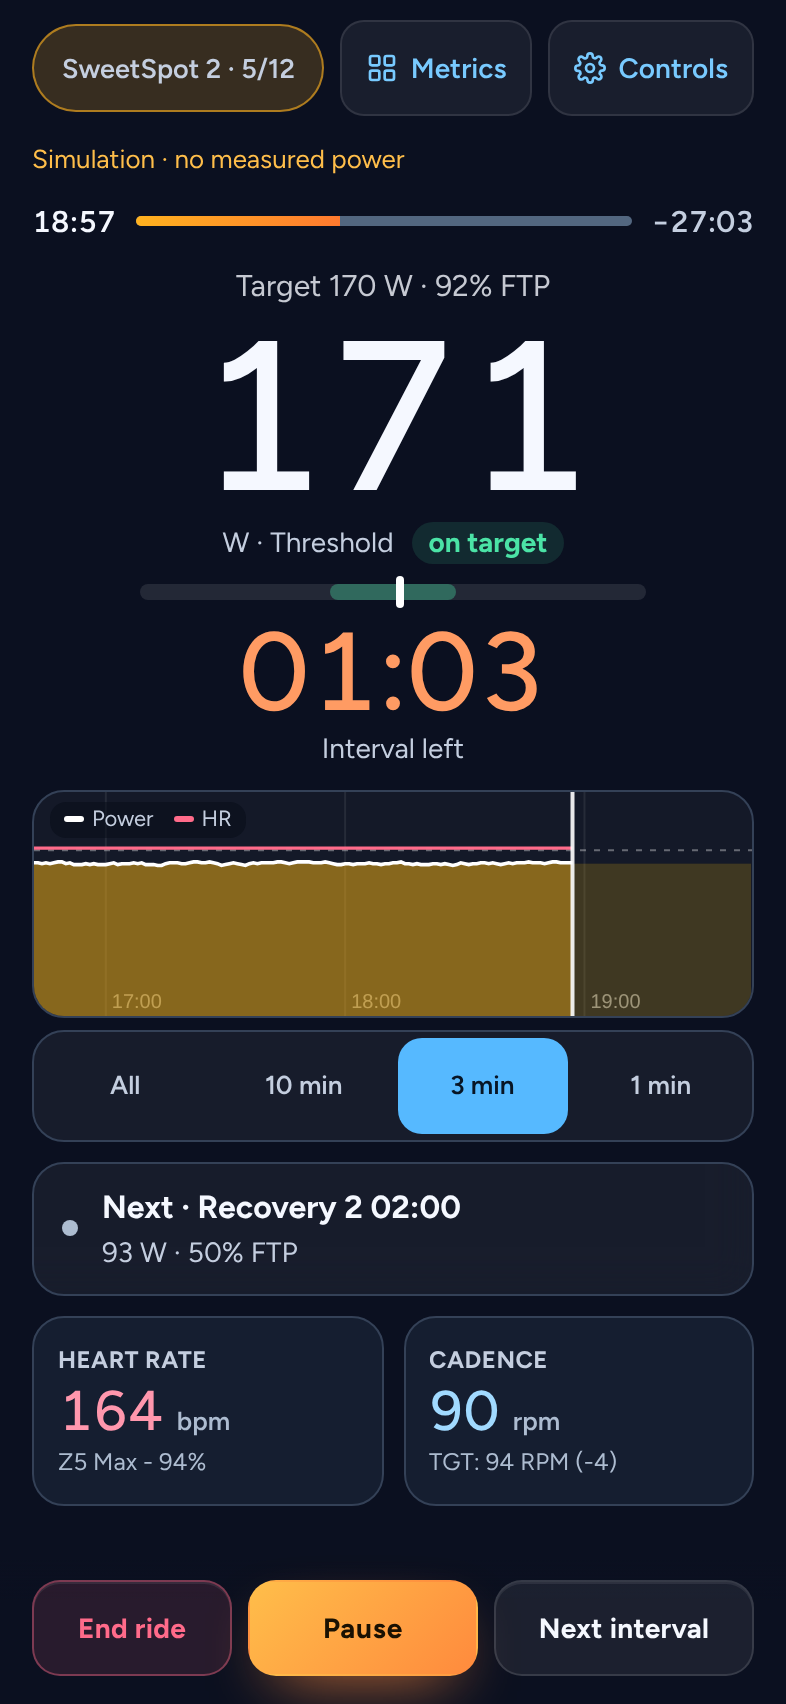
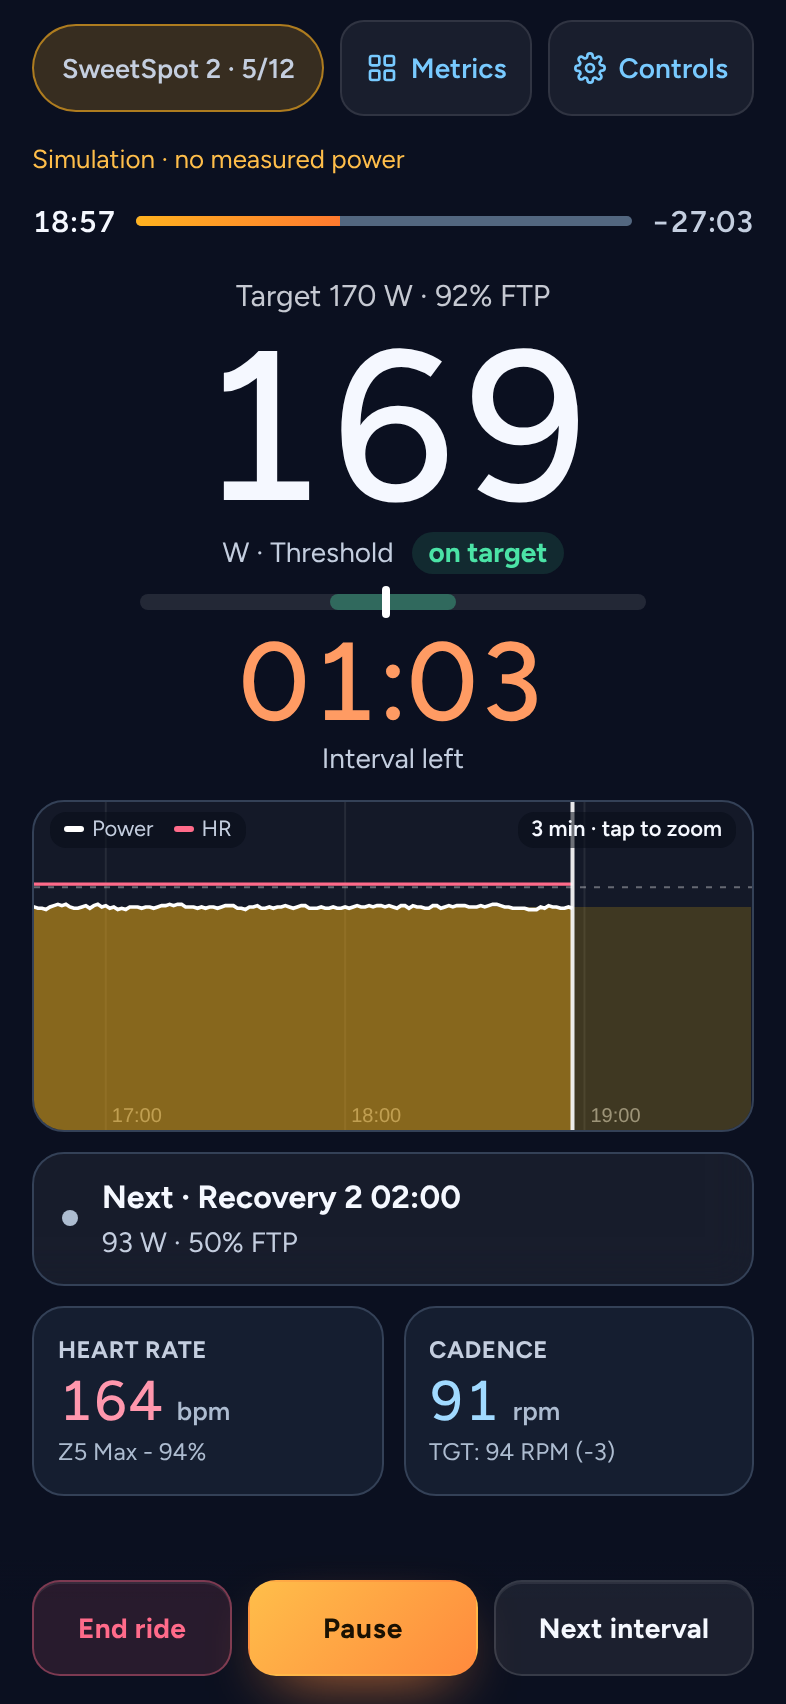
Phone ride screen: tap the graph to step its zoom, no zoom bar; Next interval takes two taps
- The live graph is one button: a tap steps whole ride > 10 min > 3 min >
  1 min > whole ride, shown in its corner, and does nothing else. The zoom
  bar is gone and the graph takes its room.
- Next interval arms on the first tap ("Tap again to skip", 3 s) and skips
  on the second, so a stray touch does not fast-forward the workout.

Claude-Session: https://claude.ai/code/session_01SLriGfu6xk2AV4rjSWGLw4

diff --git a/mobile/src/native-ride-view.js b/mobile/src/native-ride-view.js
@@ -1,8 +1,9 @@
 /**
  * The phone ride screen (docs/ANDROID-UX.md 5.6): one screen, ride/live.
  *  - Always there: power against target, the step countdown, elapsed and time left, End / Pause / Next interval.
- *  - Live graph: power, heart rate and cadence over the targets ridden and the ones to come. It zooms (All, 10 min,
- *    3 min, 1 min, following the ride) and has no tap handlers, so a touch on it can never move the workout.
+ *  - Live graph: power, heart rate and cadence over the targets ridden and the ones to come. A tap on it steps the
+ *    zoom (whole ride, 10 min, 3 min, 1 min, following the ride) and does nothing else: it never moves the workout.
+ *  - Next interval takes two taps, so a stray touch does not skip a step.
  *  - Metrics: a sheet of switches for the panels, the graph's lines and every tile; a tap shows or hides it at once.
  *  - Controls: a sheet with the ride controls (intensity, ERG, step length, smoothing, audio, devices, ...).
  * The choices are saved per rider. Nothing here computes ride data or drives the trainer: values are read from the
@@ -177,11 +178,11 @@ export class RideView {
           <small class="av-ride-left">Interval left</small>
         </div>
         <div class="av-ride-graph" data-av-item="panel:graph">
-          <div class="av-graph-view">
-            <canvas id="avRideGraph" role="img" aria-label="Power, heart rate and cadence over the workout's targets"></canvas>
-            <div class="av-legend" aria-hidden="true"><span data-legend="power"><i class="lg-power"></i>Power</span><span data-legend="hr"><i class="lg-hr"></i>HR</span><span data-legend="cadence"><i class="lg-cad"></i>Cadence</span></div>
-          </div>
-          <div class="av-seg av-zoom" id="avGraphZoom" role="group" aria-label="Graph zoom">${ZOOMS.map((z) => `<button type="button" data-zoom="${z.id}">${z.label}</button>`).join('')}</div>
+          <button type="button" class="av-graph-view" id="avGraphZoom">
+            <canvas id="avRideGraph" aria-hidden="true"></canvas>
+            <span class="av-legend" aria-hidden="true"><span data-legend="power"><i class="lg-power"></i>Power</span><span data-legend="hr"><i class="lg-hr"></i>HR</span><span data-legend="cadence"><i class="lg-cad"></i>Cadence</span></span>
+            <span class="av-zoom-lbl" id="avGraphZoomLabel" aria-hidden="true"></span>
+          </button>
         </div>
         <div class="av-ride-next" data-av-item="panel:next"><span class="av-ride-next-dot"></span><div><b id="avRideNext">--</b><small id="avRideNextSub"></small></div></div>
         <div class="av-ride-coach" data-av-item="panel:coach"><b>Coach</b> <span id="avRideCoach"></span></div>
@@ -196,16 +197,32 @@ export class RideView {
     el.querySelector('#avRideControls').addEventListener('click', () => this.openControls());
     el.querySelector('#avRideEnd').addEventListener('click', () => this.confirmEnd());
     el.querySelector('#avRidePause').addEventListener('click', () => { this.$('btnPlayPause')?.click(); this.update(); });
-    el.querySelector('#avRideSkip').addEventListener('click', () => { this.$('btnSkipInterval')?.click(); this.update(); });
-    // The only thing a touch on the graph card can do is change the zoom, with these buttons.
-    el.querySelector('#avGraphZoom').addEventListener('click', (e) => {
-      const b = e.target.closest('[data-zoom]');
-      if (!b) return;
+    el.querySelector('#avRideSkip').addEventListener('click', () => this.skip());
+    // A tap on the graph only steps its zoom (All > 10 min > 3 min > 1 min > All); it never moves the workout.
+    el.querySelector('#avGraphZoom').addEventListener('click', () => {
       const l = this.layout();
-      l.zoom = b.dataset.zoom;
+      l.zoom = ZOOMS[(ZOOMS.findIndex((z) => z.id === l.zoom) + 1) % ZOOMS.length].id;
       this.saveLayout(l);
       this.applyLayout();
     });
+  }
+
+  /** Next interval takes two taps: the first arms the button for 3 s ("Tap again to skip"), the second skips. */
+  skip() {
+    if (this._skipArmed) { this.disarmSkip(); this.$('btnSkipInterval')?.click(); this.update(); return; }
+    const b = this.$('avRideSkip');
+    b.classList.add('av-armed');
+    b.querySelector('span').textContent = 'Tap again to skip';
+    this._skipArmed = this.win.setTimeout(() => this.disarmSkip(), 3000);
+  }
+
+  disarmSkip() {
+    if (!this._skipArmed) return;
+    this.win.clearTimeout(this._skipArmed);
+    this._skipArmed = null;
+    const b = this.$('avRideSkip');
+    b.classList.remove('av-armed');
+    b.querySelector('span').textContent = 'Next interval';
   }
 
   mount() { this.applyLayout(); this.start(); }
@@ -221,7 +238,13 @@ export class RideView {
     this.simple.dataset.tiles = String(tiles);
     this.simple.dataset.cols = tiles === 3 || tiles > 4 ? '3' : '2';
     this.simple.dataset.density = tiles > 6 ? 'packed' : tiles > 3 ? 'dense' : 'roomy';
-    for (const b of this.simple.querySelectorAll('#avGraphZoom [data-zoom]')) { const on = b.dataset.zoom === l.zoom; b.classList.toggle('on', on); b.setAttribute('aria-pressed', String(on)); }
+    const zoom = ZOOMS.find((z) => z.id === l.zoom) || ZOOMS[0];
+    const zb = this.$('avGraphZoom');
+    if (zb) {
+      zb.dataset.zoom = zoom.id;
+      zb.setAttribute('aria-label', `Live graph of power, heart rate and cadence over the workout's targets, showing ${zoom.secs ? 'the last ' + zoom.label : 'the whole ride'}. Tap to change the zoom.`);
+      this.setText('avGraphZoomLabel', `${zoom.secs ? zoom.label : 'Whole ride'} · tap to zoom`);
+    }
     for (const n of this.simple.querySelectorAll('.av-legend [data-legend]')) n.hidden = !l.lines[n.dataset.legend];
     this._layout = l;
     this._graphKey = '';
@@ -266,6 +289,7 @@ export class RideView {
     const bar = this.$('avRideProgress');
     if (bar) bar.style.width = `${free || ramp ? 0 : Math.max(0, Math.min(100, elapsed / Math.max(1, elapsed + left) * 100))}%`;
     // A visual pulse when the step changes (the app plays its own audio cues).
+    if (this._lastStep != null && this._lastStep !== i) this.disarmSkip();
     if (running && this._lastStep != null && this._lastStep !== i) this.flash();
     this._lastStep = i;
     if (route !== 'ride/live') { this.updateBanner(app); return; }

diff --git a/mobile/web/apex-ride.css b/mobile/web/apex-ride.css
@@ -64,16 +64,18 @@ body.av-shell[data-av-route="ride/live"] main { padding: 0; }
 .av-pulse .av-ride-countdown { animation: av-pulse .5s ease-in-out infinite alternate; }
 @keyframes av-pulse { from { transform: scale(1); } to { transform: scale(1.12); color: #fff; } }
 @media (prefers-reduced-motion: reduce) { .av-pulse .av-ride-countdown { animation: none; text-decoration: underline; } }
-/* Live graph. The picture takes no touches (a tap on it can never move the workout); only the zoom buttons do. */
-.av-ride-graph { display: flex; flex-direction: column; gap: 6px; }
-.av-graph-view { position: relative; border-radius: 16px; overflow: hidden; border: 1px solid var(--line); background: rgba(255, 255, 255, .04); pointer-events: none; }
-.av-graph-view canvas { display: block; width: 100%; height: 112px; }
+/* Live graph: one big button. A tap steps the zoom and nothing else (it can never move the workout). */
+.av-ride-graph { display: flex; flex-direction: column; }
+.av-graph-view { position: relative; display: block; width: 100%; padding: 0; border-radius: 16px; overflow: hidden; border: 1px solid var(--line); background: rgba(255, 255, 255, .04);
+  color: inherit; font: inherit; text-align: left; cursor: pointer; -webkit-tap-highlight-color: transparent; }
+.av-graph-view:active { border-color: var(--cyan); }
+.av-graph-view canvas { display: block; width: 100%; height: 164px; pointer-events: none; }
+.av-zoom-lbl { position: absolute; top: 5px; right: 8px; padding: 1px 7px; border-radius: 8px; font-size: 11px; font-weight: 600; color: var(--text-1); background: rgba(8, 12, 24, .55); }
+.av-ride-ctrl .btn.av-armed { border-color: var(--amber, #ffbe4a); color: var(--amber, #ffbe4a); }
 .av-legend { position: absolute; top: 5px; left: 8px; display: flex; gap: 10px; padding: 1px 7px; border-radius: 8px; font-size: 11px; color: var(--text-2); background: rgba(8, 12, 24, .55); }
 .av-legend [hidden] { display: none; }
 .av-legend i { display: inline-block; width: 10px; height: 3px; border-radius: 2px; margin-right: 4px; vertical-align: middle; }
 .av-legend .lg-power { background: #fff; } .av-legend .lg-hr { background: #ff6b8a; } .av-legend .lg-cad { background: #7cc8ff; }
-.av-zoom { padding: 3px; }
-.av-zoom > button { font-size: 13px; }
 .av-ride-next, .av-ride-coach, .av-tile { border-radius: 16px; border: 1px solid var(--line); background: rgba(255, 255, 255, .05); backdrop-filter: blur(10px); }
 .av-ride-next { display: flex; align-items: center; gap: 12px; min-height: 60px; padding: 10px 14px; }
 .av-ride-next > div { flex: 1; min-width: 0; display: flex; flex-direction: column; }
@@ -99,7 +101,7 @@ body.av-shell[data-av-route="ride/live"] main { padding: 0; }
   .av-ride-grid > .av-ride-hero { grid-column: 1 / span 6; grid-row: 1 / span 8; min-height: 0; align-self: start; position: sticky; top: 8px; }
   .av-ride-grid > .av-tile { grid-column: span 2; }
   .av-ride-power { font-size: 26vh; }
-  .av-graph-view canvas { height: 84px; }
+  .av-graph-view canvas { height: 130px; }
 }
 
 /* --- Controls and Metrics sheets --- */
@@ -172,8 +174,8 @@ body.av-shell[data-av-route="ride/live"] main { padding: 0; }
 .av-summary-graph canvas { display: block; width: 100%; height: 170px; }
 
 /* More tiles on: three to a row, and the hero and graph give up room so the screen still fits. */
-.av-ride[data-density="dense"] .av-graph-view canvas { height: 96px; }
-.av-ride[data-density="packed"] .av-graph-view canvas { height: 84px; }
+.av-ride[data-density="dense"] .av-graph-view canvas { height: 148px; }
+.av-ride[data-density="packed"] .av-graph-view canvas { height: 132px; }
 
 /* End-of-ride summary (mock-up h). */
 .av-summary { min-height: 100vh; padding: calc(10px + env(safe-area-inset-top, 0px)) 16px calc(24px + env(safe-area-inset-bottom, 0px)); }

diff --git a/mobile/web/apex-polish.css b/mobile/web/apex-polish.css
@@ -155,7 +155,7 @@ html.apex-native {
 @media (orientation: portrait) and (max-height: 780px) {
   .apex-native .av-ride { gap: 8px; }
   .apex-native .av-ride-grid { gap: 8px; }
-  .apex-native .av-graph-view canvas { height: 88px; }
+  .apex-native .av-graph-view canvas { height: 136px; }
   .apex-native .av-ride-next { min-height: 0; padding: 8px 12px; }
   .apex-native .av-ride .av-tile { padding: 8px 10px; min-height: 0; }
   .apex-native .av-ride .av-tile-val { font-size: 22px; }

diff --git a/mobile/README.md b/mobile/README.md
@@ -228,8 +228,9 @@ Android back closes a sheet, then goes back a page, then to the tab's first scre
   target, the step countdown (it pulses before a step change), elapsed time and time left, and **End**, **Pause**
   and **Next interval** fixed at the bottom. End asks before it saves, and so does back.
 - **Live graph**: your power, heart rate and cadence over the targets you have ridden and the ones still to come.
-  **All**, **10 min**, **3 min** and **1 min** zoom in; a zoomed graph follows the ride, with the next target in
-  view. Touching the graph does nothing else: it can never move the workout back or forward.
+  Tap the graph to step its zoom: whole ride, 10 min, 3 min, 1 min, then back (the corner shows which). A zoomed
+  graph follows the ride, with the next target in view. A tap does nothing else: it can never move the workout
+  back or forward. **Next interval** takes two taps (*Tap again to skip*), so a stray touch does not skip a step.
 - **Metrics** (top of the ride screen) is a sheet of switches, each with its live value: the graph, the next step
   and coach tips, the graph's lines, and every tile (heart rate, cadence, 1 / 3 / 30 s power, average, NP, W/kg,
   W′ balance, L/R balance, HR drift, IF, TSS, distance, speed, intensity, ERG, power source, PowerMatch). A tap
@@ -267,7 +268,7 @@ Android back closes a sheet, then goes back a page, then to the tab's first scre
 ```bash
 npm test               # unit tests: ride handoff, merging and recovery (screen off), Bluetooth shim, Strava upload client and token exchangers (own application, broker, switching), upload queue and ledger, AI engine vs server.js, intervals.icu wellness (Node, no browser)
 npm run test:browser   # the built app in Chromium with a simulated FTMS trainer, HR strap, Strava, Claude and intervals.icu
-npm run test:phone     # phone layout at 393x852 with touch: tabs, back, deep links, taps to reach, no sideways scroll, 44 px targets, ride parity, the one ride screen (graph zoom, touches on the graph, Metrics switches); History (U3); Train parity (workouts, coach, calendar, ask)
+npm run test:phone     # phone layout at 393x852 with touch: tabs, back, deep links, taps to reach, no sideways scroll, 44 px targets, ride parity, the one ride screen (tap-to-zoom graph, two-tap skip, Metrics switches); History (U3); Train parity (workouts, coach, calendar, ask)
 ```
 
 The browser test pairs the trainer through the in-app chooser and rides an ERG workout. It checks the trainer gets its targets, drops and reconnects the link, saves the ride, signs in to Strava, uploads the FIT file and records it in the ledger, checks that no Strava activity is ever read, signs in through a token broker in a second app (no secret on the phone, own application under Advanced), queues an auto-upload while offline and sends it on resume, saves an AI key, asks a question in Ask, gets an AI interval breakdown, backfills health data from intervals.icu and reloads the app. The **Android app** GitHub workflow runs both, then builds the APK. For riding with the screen off it halts the page mid-ride while a fake native recorder in the test runner keeps recording and moves ERG to the next step, checks every second is merged back once on resume, then reloads the page mid-ride (the live ride is taken back), then kills the app in the background and recovers the ride from the journal. `cd android && ./gradlew testDebugUnitTest` runs the JVM tests of the native recorder (parsers, takeover, ramp test, journal).

diff --git a/docs/ANDROID-UX.md b/docs/ANDROID-UX.md
@@ -470,11 +470,13 @@ live telemetry that zooms, and a graph that can never rewind or fast-forward the
 - **Live graph** (`drawRideGraph`): power, heart rate and cadence over the power targets. Ridden targets come from
   the samples (each records its second's target) and coming targets from the plan as it stands now
   (`pastSegments`, `futureSegments`), so the picture stays right after a skip, a restart or a changed step length.
-  Zoom is **All / 10 min / 3 min / 1 min** (`ZOOMS`); a zoomed window follows the ride with three quarters behind
-  and a quarter ahead (`graphWindow`) and has a time grid.
-- **No accidental seeking.** The graph's view has `pointer-events: none` and no handlers; the cockpit's
-  tap-to-jump workout profile (`#intervalCanvas`) and interval queue are not on the phone's ride screen. The
-  workout moves only with **Next interval** and, in Controls, the step length and **Restart workout** (which asks).
+  The graph is one button (`#avGraphZoom`): a tap steps the zoom, whole ride > 10 min > 3 min > 1 min > whole ride
+  (`ZOOMS`), shown in its corner. There is no separate zoom bar. A zoomed window follows the ride with three
+  quarters behind and a quarter ahead (`graphWindow`) and has a time grid.
+- **No accidental seeking.** A tap on the graph only changes the zoom; the cockpit's tap-to-jump workout profile
+  (`#intervalCanvas`) and interval queue are not on the phone's ride screen. **Next interval** takes two taps
+  (the first arms it for 3 s, "Tap again to skip"). Otherwise the workout moves only from Controls: the step
+  length and **Restart workout** (which asks). There is no jump to an earlier or chosen interval.
 - **Metrics sheet** (`openMetrics`): a grid of `role="switch"` buttons (56 px), each with its live value, for the
   panels (`PANELS`: graph, next step, coach tips), the graph's lines (`LINES`) and the tiles (`TILES`, grouped by
   `TILE_GROUPS`). A tap applies and saves at once; the sheet stays open. Values the hero already shows (power,
@@ -490,6 +492,6 @@ live telemetry that zooms, and a graph that can never rewind or fast-forward the
 | | |
 |---|---|
 | The ride screen | ![](ux/after/ride-one-screen.png) |
-| Zoomed to 3 minutes | ![](ux/after/ride-graph-zoom.png) |
+| Tapped to 3 minutes | ![](ux/after/ride-graph-zoom.png) |
 | Metrics | ![](ux/after/ride-metrics-sheet.png) |
 | Six tiles on | ![](ux/after/ride-more-metrics.png) |
